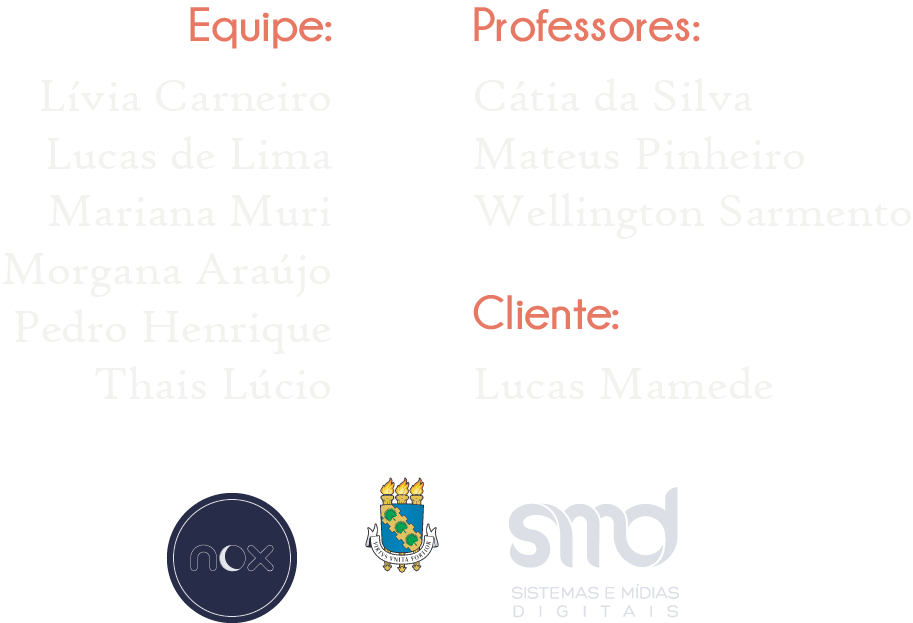
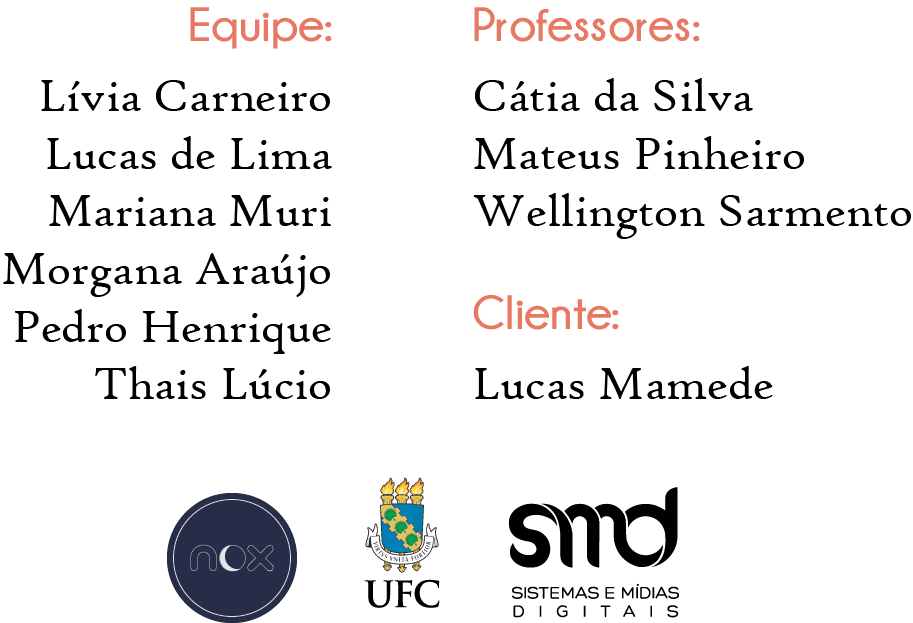
Troca da cor de fundo da tela

diff --git a/src/pages/creditos/creditos.scss b/src/pages/creditos/creditos.scss
@@ -1,7 +1,7 @@
 page-creditos {
 
   .content-md {
-    background-color: #3D5971;
+    background-color: #F0EEEA;
   }
 
   .titulo {
